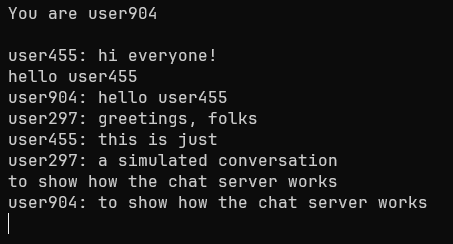
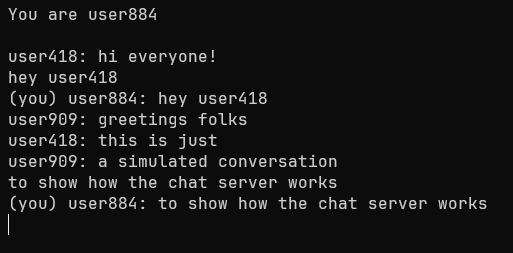
added a way to notify users which msgs they sent
main.rs: in the second arm of tokio::select, added condition to check if the server is sending the msg to the same user
problems_changes_notes: edited to reflect current state of project
images folder: changed the pictures to show the change in chat
README: removed the 4th possible change since it's done

Changed region(s): [[0.0, 0.2008, 0.9581, 0.9467], [0.0, 0.0287, 0.3709, 0.0861]]

diff --git a/src/main.rs b/src/main.rs
@@ -63,6 +63,7 @@ async fn main() -> io::Result<()> {
                 // select which happens first: sending a msg or receiving one
                 tokio::select! {
                     // i think this writes bc of the read_line
+                //
                     // thank u bufreader
                     result = reader.read_line(&mut line) => {
                         if result.unwrap() == 0 {
@@ -76,9 +77,15 @@ async fn main() -> io::Result<()> {
                     }
                     // the part that receives msgs from the network and prints them
                     result = rx.recv() => {
-                        let (msg, _other_addr) = result.unwrap();
+                        let (msg, other_addr) = result.unwrap();
 
-                        writer.write_all(msg.as_bytes()).await.unwrap();
+                        if addr != other_addr {
+                            writer.write_all(msg.as_bytes()).await.unwrap();
+                        } else {
+                            let mut user_sees_their_msg: String = "(you) ".to_owned();
+                            user_sees_their_msg.push_str(&msg);
+                            writer.write_all(user_sees_their_msg.as_bytes()).await.unwrap();
+                        }
                     }
                 }
             }

diff --git a/README.md b/README.md
@@ -48,8 +48,6 @@ For a list of possible fixes and other notes, please look at problems_changes_no
   may make the chat server look bloated with messages. i probably won't
   do this, but i'm still including it here.
 3. i might add some testing in the future
-4. i might add an asterisk right next to the user id on the user's screen
-  to better highlight which messages they sent.
 
 # Notes on the project's conception
 
